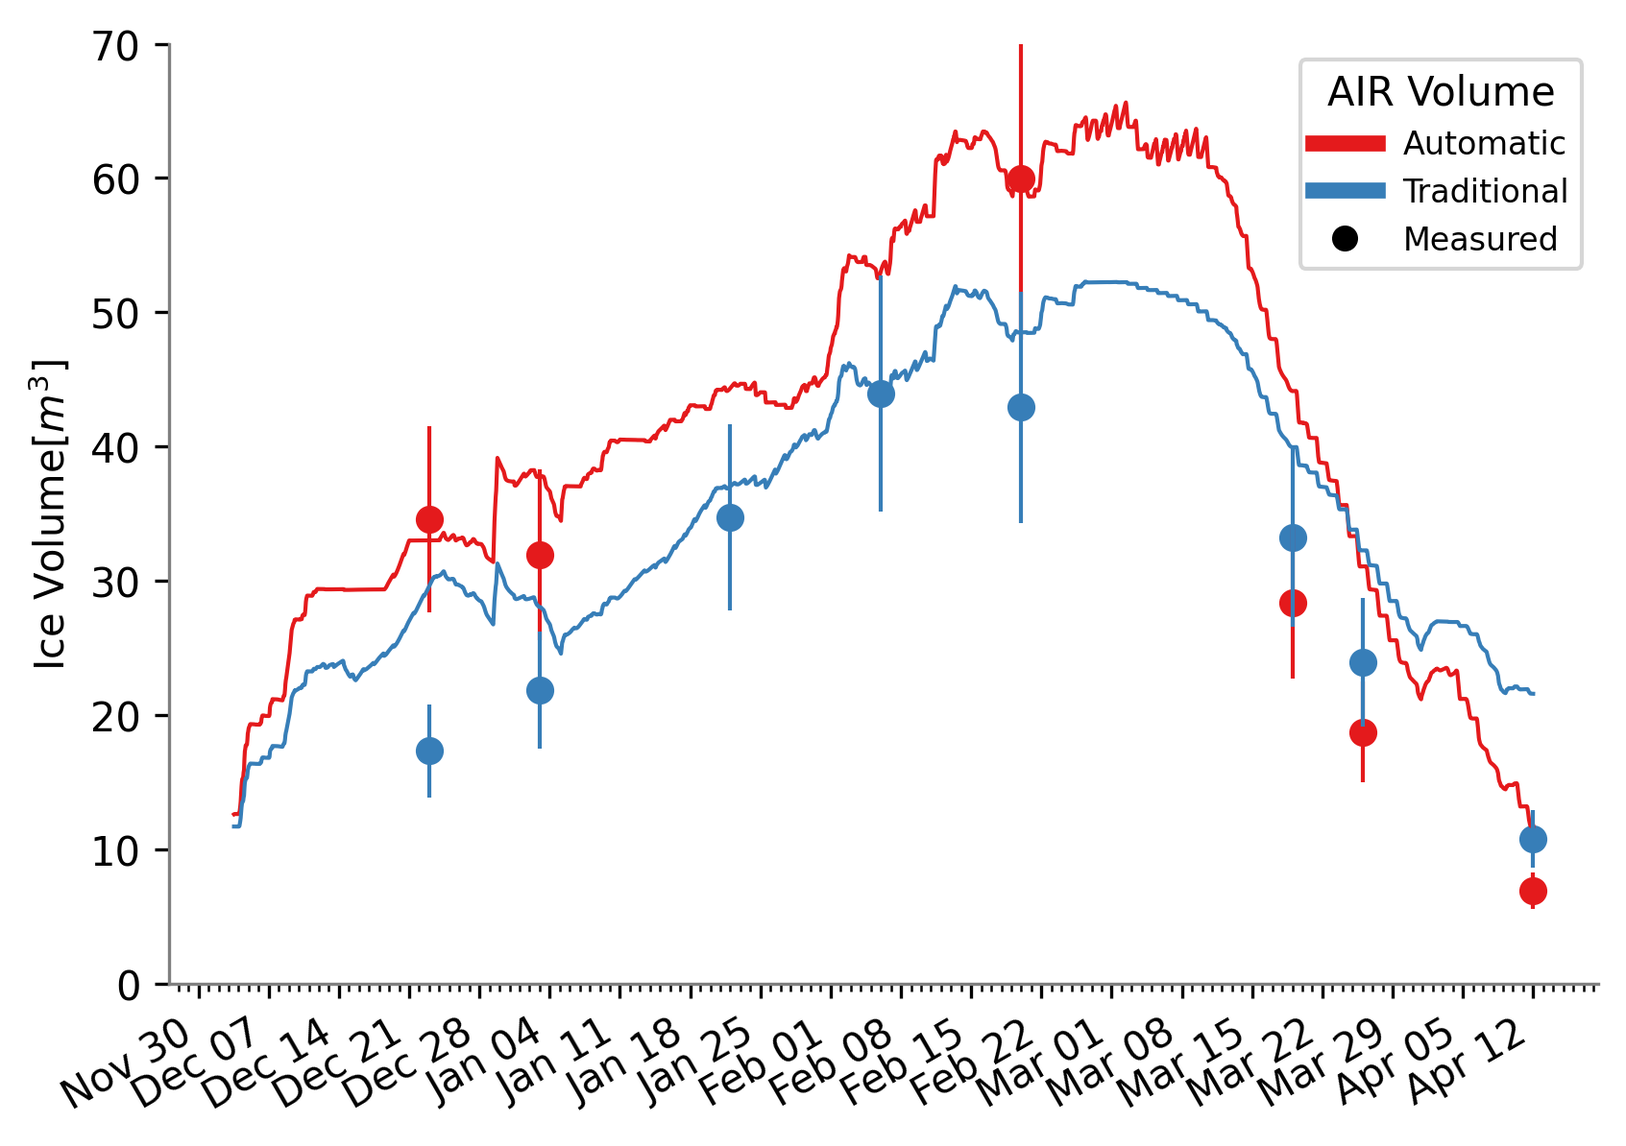
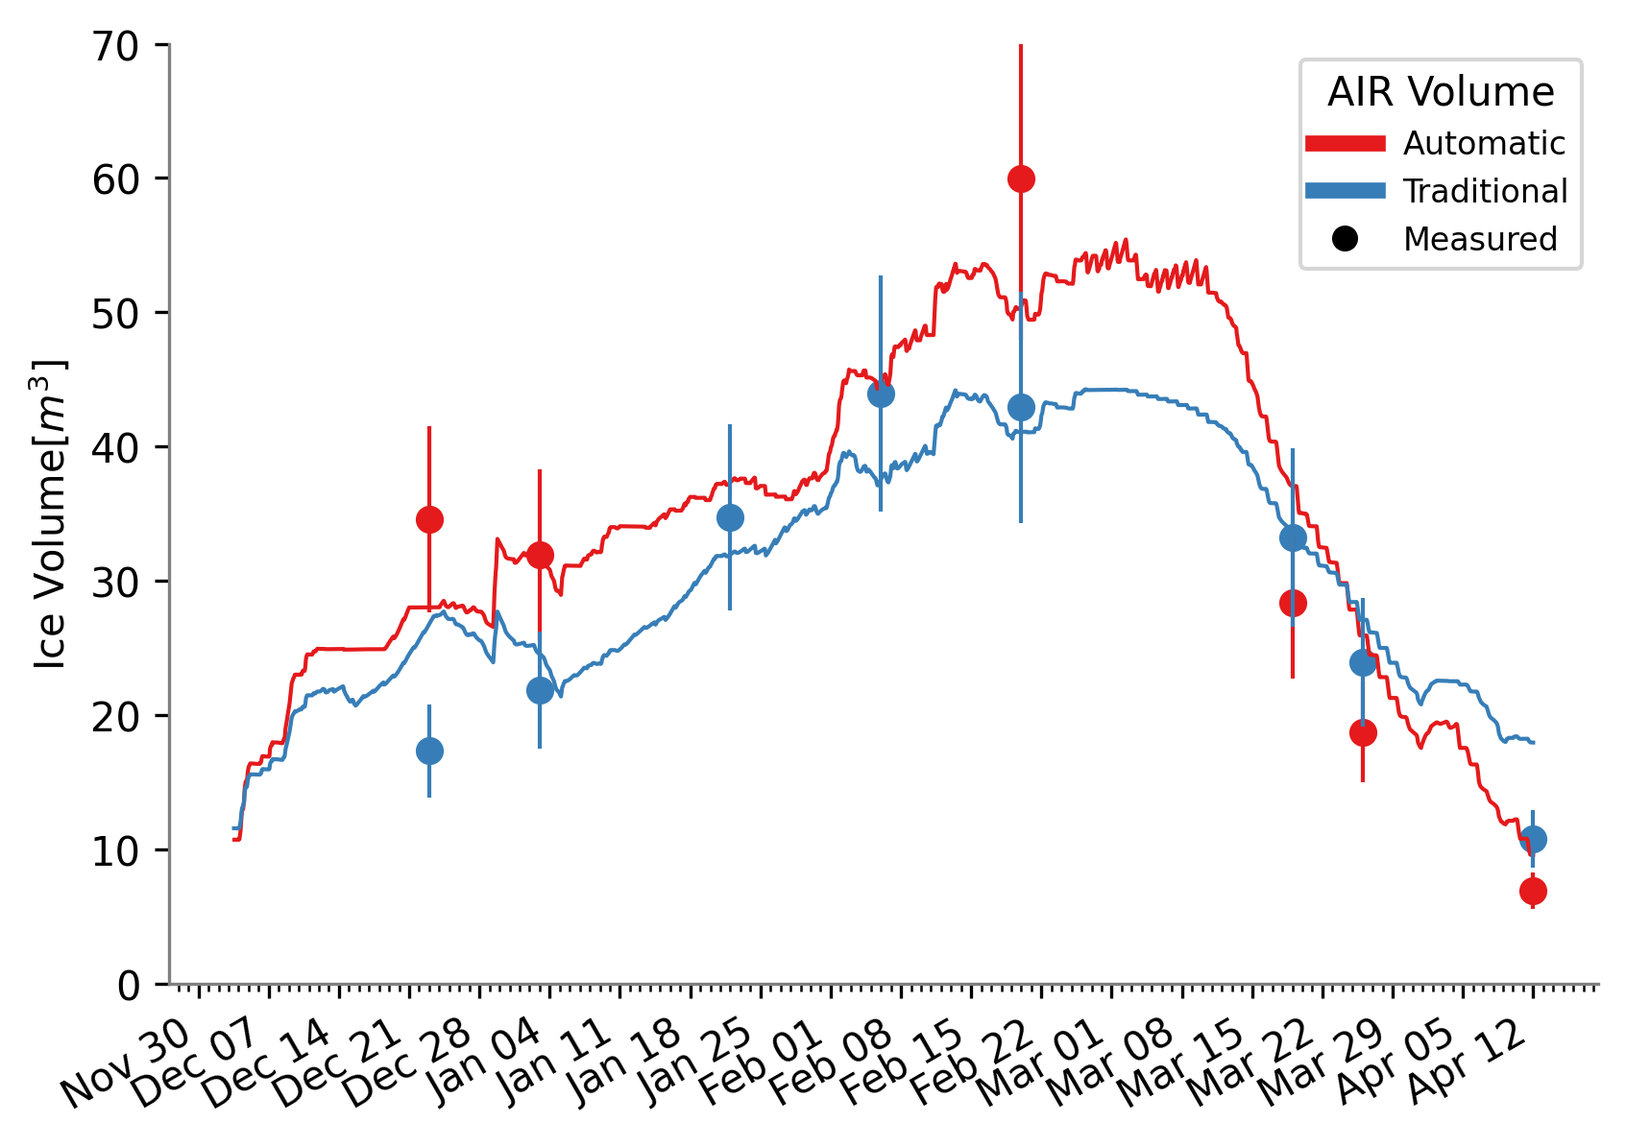
Results updated

diff --git a/tech.tex b/tech.tex
@@ -66,18 +66,23 @@ suffered from very high water losses due to excessive fountain discharge input.
 
 A straightforward solution to this issue is to reduce the fountain discharge input but it is challenging to
 implement it in practice. For example, in the case of the Indian AIR, the model estimates that water use
-efficiency can be increased without compromising the ice volume by just reducing the fountain discharge rate by
-half. However, in practice, this strategy would have further increased the number of pipeline freezing events
-due to much lower water velocities in the pipeline. 
+efficiency can be increased by just reducing the fountain discharge rate by half. However, in practice, this
+strategy would have further increased the number of fountain freezing events due to much lower water velocities
+in the pipeline. Moreover, the Indian AIR discharge rate was lowered temporally due to increase in fountain
+height from 5 to 9 m. Therefore, any reduction in initial discharge rate would have triggered a fountain
+freezing event before the fountain height could be increased to 9 m.
 
-An optimum construction strategy, therefore, should prevent pipeline freezing events while maintaining high
-water use efficiency. Typical solutions to prevent pipeline freezing events given pipeline dimensions and
-discharge rates are to bury or drain the pipeline. Burying the pipeline at a sufficient depth can reduce the
-influence of atmospheric conditions on the pipeline water temperature. Even though this method is ideal, it can
-quickly get expensive depending on the length of the pipeline and the frost depth. Therefore, such an effort is
-warranted only in the case of a permanent construction location. Comparatively, draining the pipeline is a much
-cheaper strategy. Moreover, it can be combined with fountain scheduling methods to achieve reduced watering
-volumes for AIR construction systems.
+An optimum construction strategy, therefore, should prevent fountain freezing events while maintaining high
+water use efficiency. Fountain freezing events can be prevented if the pipeline water temperature is maintained
+above 0 $\degree C$ and the discharge is not lowered below a critical threshold. Typical solutions to maintain
+pipeline water temperature given pipeline dimensions are to bury or drain the pipeline. Burying the pipeline at
+a sufficient depth can reduce the influence of atmospheric conditions on the pipeline water temperature. Even
+though this method is ideal, it can quickly get expensive depending on the length of the pipeline and the frost
+depth. Therefore, such an effort is warranted only in the case of a permanent construction location.
+Comparatively, draining the pipeline when the fountain is not active is a much cheaper strategy. Fountain
+discharge rate is lowered every time the fountain height increases. Therefore, a critical discharge rate needs
+to be set beyond which fountain height should not be increased. Moreover, both these strategies can be combined
+with fountain scheduling methods to achieve reduced watering volumes for AIR construction systems. 
 
 Proper fountain scheduling requires answers to two questions: 
 (a) When should the water be turned on and off ?
@@ -229,7 +234,7 @@ The automation hardware consists of an AWS, flowmeter, control valve, drain valv
 pipeline and a logger. The logger feeds the AWS data to the automation software and informs the recommended
 discharge rate to the flowmeter. The flowmeter adjusts the control valve to match the recommendation. However,
 the recommended discharge rate is ignored if any of the termination criterion are valid. The termination
-criterion prevent water loss and pipeline freezing events. In case a termination criteria is valid, the drain
+criterion prevent water loss and fountain freezing events. In case a termination criteria is valid, the drain
 and air valves allow the removal of water from the pipeline and entry of air in the pipeline respectively.
 
 \subsubsection{Automation software}
@@ -271,7 +276,7 @@ AIR ice mass as follows:
 Upward and downward fluxes relative to the ice surface are positive and negative, respectively. The first term
 represents the mass change rate due to freezing of the fountain water and melting of the ice. $q_{SW}$ is the
 net shortwave radiation; $q_{LW}$ is the net longwave radiation; $q_{L}$ and $q_{S}$ are the turbulent latent
-and sensible heat fluxes; $q_{F}$ is the fountain discharge heat flux; $q_{R}$ is the rain discharge heat
+and sensible heat fluxes; $q_{F}$ is the fountain discharge heat flux; $q_{R}$ is the rain water heat
 flux; $q_{G}$ is the ground heat flux; $q_{T}$ is the temperature heat flux and $A_{cone}$ is the area of the
 AIR surface. The derivation of these individual terms using the assumptions are discussed in the Appendix.
 
@@ -279,17 +284,17 @@ Equation \ref{eqn:auto} is implemented in the automation system through a user i
 the spray radius, altitude, latitude and longitude of the construction location. Once switched on, the
 automation system regulates the fountain discharge rate based on the recommended discharge rate. The recommended
 discharge rate is equal to the ice mass change rate. However, certain termination criterias override the
-discharge rate recommendation and drain the pipeline to prevent water loss or pipeline freezing events, namely: 
+discharge rate recommendation and drain the pipeline to prevent water loss or fountain freezing events, namely: 
 
 \begin{itemize}
 
 \item High water loss is assumed if wind speed greater than critical wind speed.
 
-\item High risk of pipeline freezing event is assumed if temperature lower than fountain freezing temperature.
+\item High risk of fountain freezing event is assumed if temperature lower than fountain freezing temperature.
 
-\item High risk of pipeline freezing event is assumed if $\frac{\Delta M_{ice}}{\Delta t}$ is lower than minimum fountain discharge rate. 
+\item High risk of fountain freezing event is assumed if $\frac{\Delta M_{ice}}{\Delta t}$ is lower than minimum fountain discharge rate. 
 
-\item Pipeline freezing events are assumed if $Q_F = 0$ for at least 20 seconds and the pipeline is drained as a
+\item Fountain freezing events are assumed if $Q_F = 0$ for at least 20 seconds and the pipeline is drained as a
   consequence.
 
 \item Pipeline leakage is assumed if $Q_F$ is greater than maximum fountain discharge rate.
@@ -323,7 +328,7 @@ determined as follows:
 	\end{array} \right.
 \end{equation}
 
-where $T_{F}$ is the mean measured fountain water temperature.
+where $T_{F}$ is the fountain water temperature parameter.
 
 Rain events were not considered in the previous version of the model but they occur in our experiment.
 Accordingly, the model algorithm was updated to accomodate for these events. The influence of rain events on the
@@ -332,7 +337,7 @@ temperature of a rain event was assumed to be equal to the air temperature. Acco
 due to a rain event was equal to:
 
 \begin{equation}
-  q_{R} = \frac{\Delta M_{F} \cdot c_{water} \cdot T_{a}}{\Delta t \cdot A_{cone}}
+  q_{R} = \frac{\Delta M_{ppt} \cdot c_{water} \cdot T_{a}}{\Delta t \cdot A_{cone}}
 \end{equation}
 
 \subsection{Calibration}
@@ -353,6 +358,33 @@ that could be georeferenced. Root mean squared error (RMSE) served as the evalua
 
 The performance of the ICV and WUE versions of the physical model was assessed by comparing correlation of its
 discharge rate estimates with the validated freezing rate of the calibrated physical model.
+
+\subsection{Fountain characteristics}
+
+The influence of the fountain characteristics namely, its aperture diameter ($dia$) and height ($h$) on the
+the discharge of the fountain ($Q$) can be determined from the Bernoulli equation :
+
+\begin{equation}
+  \label{eqn:fountain}
+  P_{i} + \rho_{water} \cdot g \cdot h_{i} + 1/2 \cdot \rho_{water} \cdot v_{i}^2 = P_{f} + \rho_{water} \cdot g
+  \cdot h_{f} + 1/2 \cdot \rho_{water} \cdot v_{f}^2
+\end{equation}
+
+where $P$ is the pressure loss caused by the fountain, $\rho_{water}$ is the density of water and $v$ is the
+velocity of the fountain water droplets. The subscripts $i$ and $f$ refer to the initial and final states of the
+system. $v$ can be determined from the discharge rate $Q$ through the mass conservation equation as 
+
+\begin{equation}
+ v = 4 \cdot Q/(\pi \cdot dia^2)
+\end{equation}
+
+Combining the above two equations we get the final discharge $Q_f$ after a height change from $h_i$ to $h_f$ to be :
+
+\begin{equation}
+  \label{eqn:discharge}
+  Q_f = \sqrt{Q_i^2 + 2 \cdot g \cdot (h_f-h_i) \cdot (\pi \cdot dia^2/4)^2}
+\end{equation}
+
 
 \section{Results}
 
@@ -427,31 +459,86 @@ The fountain water heat flux is enhanced whereas the ground heat flux is dampene
 		\textbf{}              & \textbf{Name}                   & \textbf{Symbol} & \textbf{Traditional} & \textbf{Automated} &
 		\textbf{Units}                                                                                                       \\ \midrule
 		\multicolumn{1}{|l|}{\multirow{3}{*}{\rotatebox[origin=c]{90}{Input}}}
-		                       & Fountain discharge              & $M_F$           & \num{7.3e5}   & \num{7.5e4}     & $kg$  \\
-		\multicolumn{1}{|l|}{} & Snowfall                        & $M_{ppt}$       & \num{1.3e4}   & \num{2.2e4}   & $kg$  \\
-		\multicolumn{1}{|l|}{} & Deposition                      & $M_{dep}$       & \num{2.3e2}   & \num{8.9e2}     & $kg$  \\ \midrule
+		                       & Fountain discharge              & $M_F$           & \num{6.8e5}   & \num{1.5e5}     & $kg$  \\
+		\multicolumn{1}{|l|}{} & Snowfall                        & $M_{ppt}$       & \num{1.3e4}   & \num{1.8e4}   & $kg$  \\
+		\multicolumn{1}{|l|}{} & Deposition                      & $M_{dep}$       & \num{8.8e2}   & \num{1.2e3}     & $kg$  \\ \midrule
 		\multicolumn{1}{|l|}{\multirow{4}{*}{\rotatebox[origin=c]{90}{Output}}}
-		                       & Meltwater                       & $M_{water}$     & \num{2.0e4} & \num{1.2e4}   & $kg$  \\
-		\multicolumn{1}{|l|}{} & Ice                             & $M_{ice}$       & \num{2.2e4} & \num{3.0e4}    & $kg$  \\
-		\multicolumn{1}{|l|}{} & Sublimation                     & $M_{sub}$       & \num{1.5e3} & \num{1.2e3}     & $kg$  \\
-		\multicolumn{1}{|l|}{} & Fountain wastewater             & $M_{waste}$     & \num{7.0e5} & \num{6.5e4}     & $kg$  \\ \midrule
+		                       & Meltwater                       & $M_{water}$     & \num{3.8e4} & \num{5.1e4}   & $kg$  \\
+		\multicolumn{1}{|l|}{} & Ice                             & $M_{ice}$       & \num{1.1e4} & \num{5.4e3}    & $kg$  \\
+		\multicolumn{1}{|l|}{} & Sublimation                     & $M_{sub}$       & \num{2.6e3} & \num{2.9e3}     & $kg$  \\
+		\multicolumn{1}{|l|}{} & Fountain wastewater             & $M_{waste}$     & \num{6.5e5} & \num{1.1e5}     & $kg$  \\ \midrule
 		\multicolumn{1}{|l|}{\multirow{7}{*}{\rotatebox[origin=c]{90}{Energy Balance}}}
 
-                           & Shortwave radiation             &  $q_{SW}$       & $25$  & $26$ & \% \\
-		\multicolumn{1}{|l|}{} & Longwave radiation              &  $q_{LW}$       & $-45$  & $-43$ & \% \\
-		\multicolumn{1}{|l|}{} & Sensible heat                   &  $q_{S}$        & $4$   & $8$ & \% \\
-		\multicolumn{1}{|l|}{} & Latent heat                     &  $q_{L}$        & $-17$  & $-17$ & \% \\
+                           & Shortwave radiation             &  $q_{SW}$       & $33$  & $45$ & \% \\
+		\multicolumn{1}{|l|}{} & Longwave radiation              &  $q_{LW}$       & $-33$  & $-31$ & \% \\
+		\multicolumn{1}{|l|}{} & Sensible heat                   &  $q_{S}$        & $7$   & $7$ & \% \\
+		\multicolumn{1}{|l|}{} & Latent heat                     &  $q_{L}$        & $-17$  & $-15$ & \% \\
 		\multicolumn{1}{|l|}{} & Fountain water heat             &  $q_{F}$        & $9$  & $1$     & \% \\
-		\multicolumn{1}{|l|}{} & Ground heat                     &  $q_{G}$        & $1$   & $4$     & \% \\\midrule
+		\multicolumn{1}{|l|}{} & Ground heat                     &  $q_{G}$        & $1$   & $1$     & \% \\\midrule
 		\multicolumn{1}{|l|}{\multirow{2}{*}{\rotatebox[origin=c]{90}{AIR}}}
 
 		                       & Maximum Ice Volume              &                 & 47            & 67            & $m^{3}$ \\
 		\multicolumn{1}{|l|}{} & Water Use Efficiency            &                 & 5             & 38            & \% \\
-		\multicolumn{1}{|l|}{} & Surface Area                    &  $A_{cone}$     & $56\pm 5$  & $79 \pm 4$     &$m^{2}$ \\\midrule
+		\multicolumn{1}{|l|}{} & Surface Area                    &  $A_{cone}$     & $54\pm 7$  & $70 \pm 14$     &$m^{2}$ \\\midrule
 	\end{tabular}
 \end{table}
 
+\subsection{Estimation of fountain characteristics}
+
+\subsubsection{Aperture diameter}
+
+The maximum discharge rate of the scheduled fountain was reduced from $Q_i$ =  13 $l/min$ to $Q_f$ = 11 $l/min$
+when the fountain height was raised from  $h_i$ = 3 $m$ to $h_f$ = 4 $m$. Inputting the corresponding values in
+Eqn. \ref{eqn:fountain_min}, we get the estimated fountain aperture diameter ($dia$) to be around 5 $mm$. 
+
+\subsubsection{Critical discharge rate}
+
+Traditional AIR construction is often interrupted after fountain height increase events. These events reduce
+fountain discharge below the critical discharge rate ($Q_{crit}$) and thereby increase the risk of fountain
+freezing events. Here we define the critical discharge rate as the discharge rate beyond which fountain height
+increase triggers a fountain freezing event.
+
+We assume that fountain freezing events occur when a 1 meter fountain height increase event reduces the pipeline
+discharge to zero. Therefore, inputting $(h_f - h_i) = 1$ in Eqn. \ref{eqn:fountain} we get: 
+
+\begin{equation}
+  \label{eqn:fountain_min}
+  Q_{crit} = \sqrt{2 \cdot g } \cdot \pi \cdot dia^2/4
+\end{equation}
+
+This implies that the critical discharge required to increase the fountain height by one meter of the scheduled
+fountain with an aperture diameter of 5 mm is 5 litres per minute.
+
+
+\subsubsection{Fountain pressure loss}
+
+Discharge rate was observed to increase from $Q_{i}$ = 11 $l/min$ to $Q_{f}$ = 27 $l/min$ upon removal of the fountain. Inputting
+$P_{f} = 0$ and $h_{i} = h_{f}$ in Eqn. \ref{eqn:fountain} we get: 
+
+\begin{equation}
+  P_{i} = 1/2 \cdot \rho \cdot (Q_f/A)_f^2 - 1/2 \cdot \rho_{water} \cdot (Q_i/A)^2
+\end{equation}
+
+Inputting the corresponding values, we estimate $P$ to be around 0.19 $bar$. In other words, the pressure loss
+occuring due to the fountain was equivalent to 1.9 meters of water head.
+
 \section{Discussion}
+
+\subsection{Fountain freezing events}
+
+Both the scheduled and the unscheduled fountain were interrupted by a freezing event. However, the cause of the
+freezing event was different in each of the cases. For the scheduled fountain, improper drainage of water
+triggered a pipeline freezing event in one section of the pipe. For the unscheduled fountain, a fountain
+freezing event froze the whole pipe. This fountain freezing event was triggered almost immediately after the
+fountain height was increased even though the fountain discharge had attained the critical discharge rate as
+shown in Fig. \ref{fig:aws}. Therefore both the freezing events could have been prevented by ensuring proper
+drainage and avoiding fountain height increase events after attaining critical discharge rate. 
+
+\subsection{Fountain design}
+
+The unscheduled fountain was observed to produce bigger water droplets with different trajectories compared to
+the scheduled fountain. This behaviour was due to the different engineering design of the two fountains as shown
+in Fig. ?.
 
 \subsection{Simulations of scheduled fountains}
 
@@ -468,56 +555,11 @@ strategies used}
 \label{fig:wue}
 \end{figure*}
 
-\subsection{Fountain characteristics}
-
-\subsubsection{Fountain aperture diameter}
-
-The maximum discharge rate of the scheduled fountain was reduced from 13 $l/min$ to 11 $l/min$ when the fountain
-height was raised from 3 to 4 $m$. This information can be used to find the fountain aperture diameter ($dia$).
-Inputting $Q_f$ = 13 $l/min$; $Q_i$ = 11 $l/min$; $(h_f-h_i) = 1$ in Eqn. \ref{eqn:fountain_min}, we get the estimated
-fountain aperture diameter ($dia$) to be around 5 $mm$. 
-
-\subsubsection{Critical and minimum discharge rate}
-
-Traditional AIR construction is often interrupted after fountain height increase events. These events reduce
-fountain discharge below the critical discharge rate ($Q_{crit}$) and thereby increase the risk of pipeline
-freezing events. Here we define the critical discharge rate as the discharge rate before a fountain height
-increase event reduces  
-
-We assume that pipeline freezing events occur when fountain height increase events reduce the pipeline discharge
-below the critical discharge rate ($Q_{crit}$). Assuming $Q_{crit} = 0; (h_f - h_i) = 1$ in Eqn.
-\ref{eqn:fountain} we get: 
-
-\begin{equation}
-  \label{eqn:fountain_min}
-  Q_{min} = \sqrt{2 \cdot g } \cdot \pi \cdot dia^2/4
-\end{equation}
-
-where $Q_{min}$ is the minimum discharge rate that supports a fountain height increase event. This implies that
-the minimum discharge required to increase the fountain height by one meter of the scheduled fountain with an
-aperture diameter of 5 mm is 5 litres per minute.
-
-The unscheduled fountain was observed to produce bigger water droplets than the scheduled fountain. This implies
-that it had a higher aperture diameter and therefore a higher minimum discharge rate. In reality, the
-unscheduled fountain had a fountain freezing event almost immediately after its height was increased from 4 to 5
-$m$. This height increase event lowered its discharge rate below the minimum discharge rate of   
-
-\subsubsection{Fountain pressure loss}
-
-Discharge rate was observed to increase from 11 $l/min$ to 27 $l/min$ upon removal of the fountain. If $P_F$ is
-the pressure loss due to the fountain, then from the bernoulli equation we get:
-
-\begin{equation}
-   P_F = 1/2 \cdot \rho \cdot (Q_f/A)_f^2 - 1/2 \cdot \rho_{water} \cdot (Q_i/A)^2
-\end{equation}
-
-Inputting the corresponding values, we estimate $P_F$ to be around 0.19 $bar$. In other words, the pressure loss
-occuring due to presence of the fountain was equivalent to 2 meters of water head.
 
 
 \subsection{Recommended construction strategy}
 
-Fix fountain height, make multiple AIRs, fountain design, fountain height increase eqn.
+Fix fountain height, make multiple AIRs
 
 \conclusions
 
@@ -526,7 +568,7 @@ using data collected in Guttannen, Switzerland.
 
 The main purpose of this study was to quantify the influence of different fountain scheduling strategies on the
 water use efficiency and ice volumes of AIRs exposed to identical weather conditions. We found that excessive
-fountain discharge not just increased the fountain wastewater production but also enhanced the melting rate of
+fountain discharge rate not just increased the fountain wastewater production but also enhanced the melting rate of
 AIRs mainly due to its surface albedo and surface temperature feedbacks. Therefore, the automated AIR was able
 to achieve a 20 \% higher maximum ice volume with a 8 fold increase in the water use efficiency compared to the
 traditional AIR.
@@ -534,24 +576,22 @@ traditional AIR.
 The automation system allows the easy handling of fountain scheduling implementation in any new location. The
 possibility for changing the location and fountain metadata directly in the user interface allows tailoring the
 fountain discharge rate according to the location's water supply and weather conditions. Furthermore, this
-construction strategy reduces the occurence of pipeline freezing events as it drains the pipeline whenever
-critical weather windows are detected. Although, the automation system increases installation costs, we believe
-use of such systems is warranted when considering the reduced maintenance costs long term.
+construction strategy reduces the occurence of fountain freezing events as it drains the pipeline outside
+favourable weather windows and prevents fountain discharge rate to lower below a critical threshold. Although,
+the automation system increases installation costs, we believe use of such systems is warranted when considering
+the reduced maintenance costs long term.
 
 A simplified energy balance model compatible with the limited data availability of a new location was used to
 produce recommended discharge rate. Nevertheless, this model was able to capture more than 65 \% of the freezing
 rate variations produced by the full energy balance model. Simulations comparing scheduled and unscheduled
 fountains show that upto a two fold increase in WUE is possible with the use of automation systems.
 
-Nevertheless, the real world application of this method is challenging. 
-
-It is clear that if improvements are to be achieved, future research must be devoted to modelling the impact of
-fountain design on the spray radius.
+Nevertheless, the real world application of this method is challenging. It is clear that if improvements are to
+be achieved, future research must be devoted to modelling the impact of fountain design on the spray radius.
 
 \appendix
 
 \section{Simplified energy balance model}
-
 
 The data requirement was reduced by estimating the global shortwave radiation and pressure directly using the
 location's coordinates and altitude through the solar radiation model described in
@@ -645,29 +685,6 @@ by \citet{oerlemansBriefCommunicationGrowth2021}, we can estimate this parameter
 Hence, the $\mu_{cone}$ parameter takes values of 1.5 and 1 for the iceV and WUE objective respectively.  Since
 turbulent fluxes impact both the freezing and the melting rates, this assumption may not favor the corresponding
 objectives for certain sites.
-
-\section{Fountain equation} \label{sec:fountain}
-
-Here we inspect how the choice of the fountain height ($h$) and pipeline diameter ($dia$) influence the fountain
-discharge rate ($Q$). Given the initial discharge rate ($Q_i$) of the fountain, the final discharge ($Q_f$) of
-the fountain can be determined by the Bernoulli equation as follows: 
-
-\begin{equation}
-  \rho_{water} \cdot g \cdot h_i + 1/2 \cdot \rho_{water} \cdot v_i^2 = \rho_{water} \cdot g \cdot h_f + 1/2 \cdot \rho \cdot v_f^2
-\end{equation}
-
-where the velocity $v$ can be determined from the discharge rate $Q$ through the mass conservation equation as 
-
-\begin{equation}
- v = 4 \cdot Q/(\pi \cdot dia^2)
-\end{equation}
-
-Combining the above two equations we get the final discharge $Q_f$ after a height change from $h_i$ to $h_f$ to be :
-
-\begin{equation}
-  \label{eqn:fountain}
-  Q_f = \sqrt{Q_i^2 + 2 \cdot g \cdot (h_f-h_i) \cdot (\pi \cdot dia^2/4)^2}
-\end{equation}
 
 \noappendix 
 
